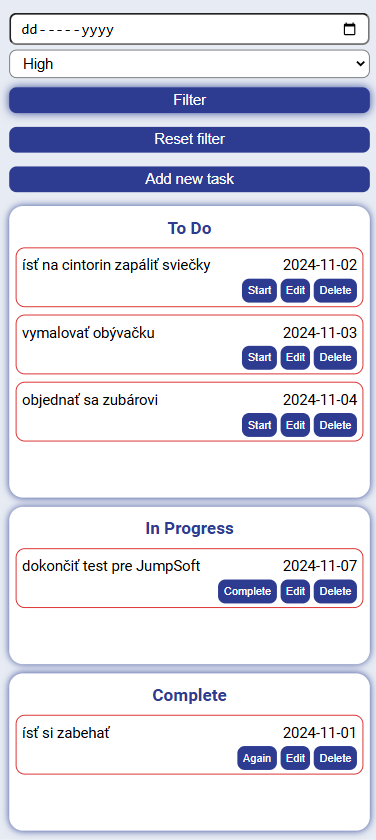
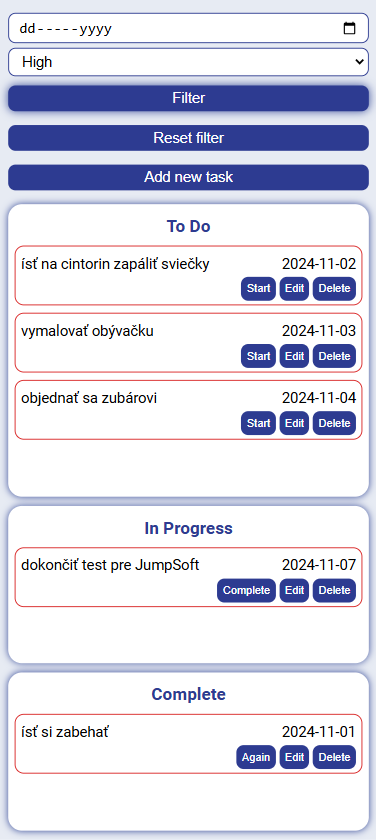
aktualizacia screenshotov a doladenie App.css

diff --git a/src/App.css b/src/App.css
@@ -30,9 +30,15 @@ body,
 .filter-div input,
 .filter-div select{
   border-radius: 8px;
+  border: solid 1px var(--textClr);
   font-size: 16px;
   padding: 5px 10px;
   margin: 10px 10px 5px 10px;
+}
+
+.filter-div input:hover,
+.filter-div select:hover{
+  box-shadow: 0 0 4px var(--shadowClr);
 }
 
 .App button{
